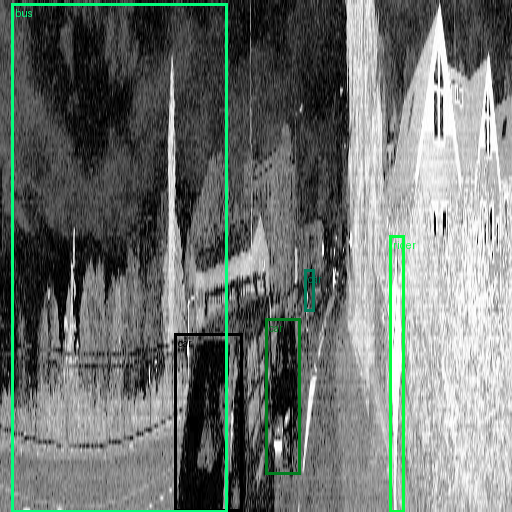
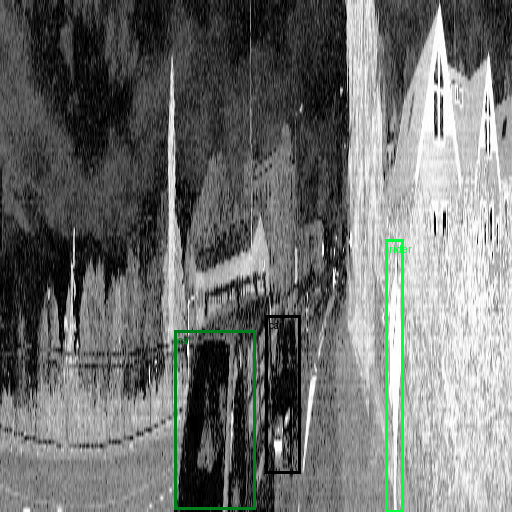
fix: naplab data loader

Changed region(s): [[0.0, 0.0, 0.625, 1.0], [0.75, 0.4375, 0.8125, 1.0]]

diff --git a/project/trainer.py b/project/trainer.py
@@ -32,16 +32,7 @@ config = munch.munchify(yaml.load(open("config.yaml"), Loader=yaml.FullLoader))
 VALID_LABELS = ['background', 'truck', 'bus', 'motorcycle', 'bicycle', 'person', 'rider', 'car']
 
 if not config.pre_train:
-    VALID_LABELS = [
-            "background",
-            "truck",
-            "bus",
-            "bicycle",
-            "scooter",
-            "person",
-            "rider",
-            "car"
-        ]
+    VALID_LABELS = ["background", "truck", "bus", "scooter", "bicycle", "person", "rider", "car"]
     
 STR2IDX = {cls: idx for idx, cls in enumerate(VALID_LABELS)}
 

diff --git a/project/datasets/naplab.py b/project/datasets/naplab.py
@@ -127,6 +127,15 @@ class NapLab(VisionDataset):
             cls = int(line[0])
             if cls == 0:
                 cls = 7
+                
+            if cls == 5:
+                cls = 3 # Scooter -> Motorcycle
+            
+            if cls >= 6: # If its a person or rider
+                cls -= 1 # Shift the classes to the left
+            
+            
+            
             
         
             x, y, w, h = map(float, line[1:])

diff --git a/project/models/FasterRCNN.py b/project/models/FasterRCNN.py
@@ -129,7 +129,6 @@ def init_faster_rcnn(config, litmodel):
         in_features = litmodel.model.roi_heads.box_predictor.cls_score.in_features
         litmodel.model.roi_heads.box_predictor = FastRCNNPredictor(in_channels=in_features, num_classes=litmodel.num_classes)
         
-       
         
         # TODO: figure out appropriate anchor generator
         
